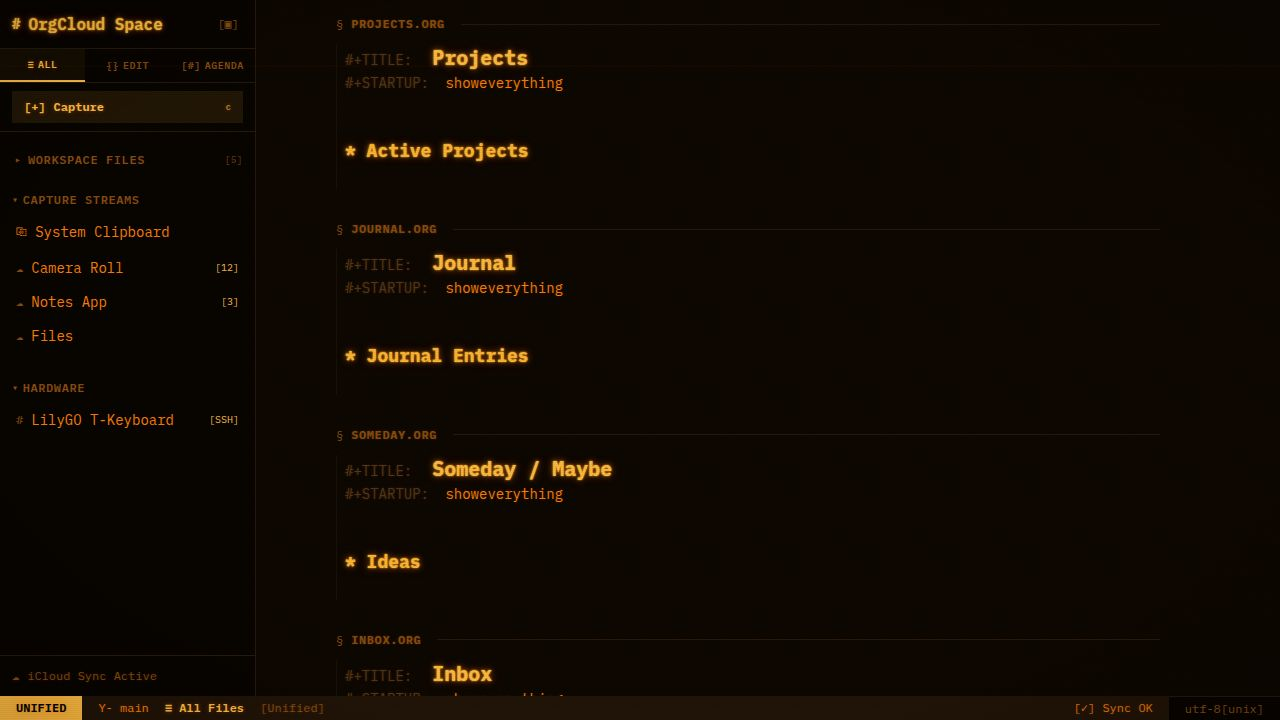
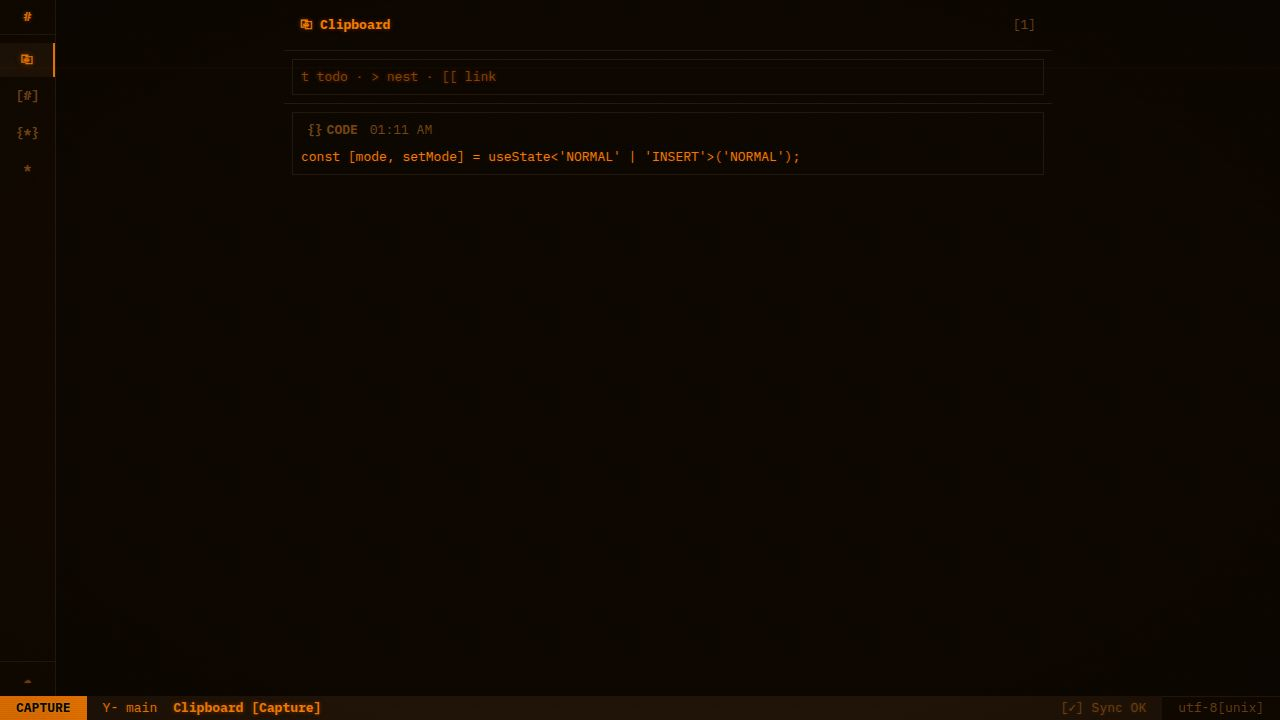
Add an Emacs-like command minibuffer for universal interface control
Integrates a new Minibuffer component for command execution and search, updates the Workspace to manage its visibility and keyboard shortcuts, enhances the StatusBar to display command echoes, and documents the new functionality in replit.md.

Replit-Commit-Author: Agent
Replit-Commit-Session-Id: dab55317-dbd5-4fa0-af83-9bc3eae3199b
Replit-Commit-Checkpoint-Type: full_checkpoint
Replit-Commit-Event-Id: 1dcb3949-687b-429f-9546-4cf817c8d932
Replit-Commit-Screenshot-Url: https://storage.googleapis.com/screenshot-production-us-central1/5d0b2f30-a35a-452f-b984-250b77fea052/dab55317-dbd5-4fa0-af83-9bc3eae3199b/GsNeFlB
Replit-Helium-Checkpoint-Created: true

diff --git a/client/src/components/editor/Minibuffer.tsx b/client/src/components/editor/Minibuffer.tsx
@@ -1,0 +1,185 @@
+import React, { useState, useRef, useEffect, useMemo } from "react";
+import { cn } from "@/lib/utils";
+import { useHeadingsSearch } from "@/hooks/use-org-data";
+
+interface MinibufferCommand {
+  id: string;
+  label: string;
+  hint?: string;
+  action: () => void;
+}
+
+interface MinibufferProps {
+  onClose: () => void;
+  onSwitchView: (view: "org" | "agenda" | "roam" | "clipboard") => void;
+  onOpenCapture: () => void;
+  onCycleTheme: () => void;
+  onCarryOver: () => void;
+  onCommandExecuted: (label: string) => void;
+}
+
+export default function Minibuffer({
+  onClose,
+  onSwitchView,
+  onOpenCapture,
+  onCycleTheme,
+  onCarryOver,
+  onCommandExecuted,
+}: MinibufferProps) {
+  const [query, setQuery] = useState("");
+  const [selectedIdx, setSelectedIdx] = useState(0);
+  const [mode, setMode] = useState<"command" | "search">("command");
+  const inputRef = useRef<HTMLInputElement>(null);
+  const listRef = useRef<HTMLDivElement>(null);
+
+  const searchQuery = mode === "search" ? query : "";
+  const { data: headings = [] } = useHeadingsSearch(searchQuery);
+
+  useEffect(() => {
+    inputRef.current?.focus();
+  }, []);
+
+  const exec = (label: string, fn: () => void) => {
+    fn();
+    onCommandExecuted(label);
+    onClose();
+  };
+
+  const commands: MinibufferCommand[] = useMemo(() => [
+    { id: "switch-to-clipboard", label: "switch-to-clipboard", hint: "⎘", action: () => exec("Switched to Clipboard", () => onSwitchView("clipboard")) },
+    { id: "switch-to-agenda", label: "switch-to-agenda", hint: "[#]", action: () => exec("Switched to Agenda", () => onSwitchView("agenda")) },
+    { id: "switch-to-roam", label: "switch-to-roam", hint: "{*}", action: () => exec("Switched to Roam", () => onSwitchView("roam")) },
+    { id: "switch-to-org", label: "switch-to-org", hint: "*", action: () => exec("Switched to Org Buffer", () => onSwitchView("org")) },
+    { id: "org-capture", label: "org-capture", hint: "c", action: () => exec("Org Capture", () => onOpenCapture()) },
+    { id: "cycle-theme", label: "cycle-theme", hint: "#", action: () => exec("Theme cycled", () => onCycleTheme()) },
+    { id: "carry-over-tasks", label: "carry-over-tasks", hint: "", action: () => exec("Tasks carried over", () => onCarryOver()) },
+    { id: "search-headings", label: "search-headings", hint: "/", action: () => { setMode("search"); setQuery(""); setSelectedIdx(0); } },
+  ], []);
+
+  const filteredCommands = useMemo(() => {
+    if (mode === "search") return [];
+    if (!query.trim()) return commands;
+    const q = query.toLowerCase();
+    return commands.filter(c => c.label.toLowerCase().includes(q) || c.id.toLowerCase().includes(q));
+  }, [query, commands, mode]);
+
+  const headingItems = useMemo(() => {
+    if (mode !== "search") return [];
+    return headings.slice(0, 20).map((h) => ({
+      id: `heading-${h.sourceFile}-${h.lineNumber}`,
+      label: `${"*".repeat(h.level)} ${h.status ? h.status + " " : ""}${h.title}`,
+      hint: `${h.sourceFile}:${h.lineNumber}`,
+      action: () => exec(`Jumped to ${h.title}`, () => onSwitchView("org")),
+    }));
+  }, [headings, mode]);
+
+  const items = mode === "search" ? headingItems : filteredCommands;
+
+  useEffect(() => {
+    setSelectedIdx(0);
+  }, [query, mode]);
+
+  useEffect(() => {
+    if (listRef.current) {
+      const selected = listRef.current.querySelector("[data-selected='true']");
+      if (selected) {
+        selected.scrollIntoView({ block: "nearest" });
+      }
+    }
+  }, [selectedIdx]);
+
+  const handleKeyDown = (e: React.KeyboardEvent) => {
+    if (e.key === "Escape") {
+      if (mode === "search") {
+        setMode("command");
+        setQuery("");
+      } else {
+        onClose();
+      }
+      return;
+    }
+    if (e.key === "ArrowDown" || (e.ctrlKey && e.key === "n")) {
+      e.preventDefault();
+      setSelectedIdx(i => Math.min(i + 1, items.length - 1));
+      return;
+    }
+    if (e.key === "ArrowUp" || (e.ctrlKey && e.key === "p")) {
+      e.preventDefault();
+      setSelectedIdx(i => Math.max(i - 1, 0));
+      return;
+    }
+    if (e.key === "Enter") {
+      e.preventDefault();
+      if (items[selectedIdx]) {
+        items[selectedIdx].action();
+      }
+      return;
+    }
+  };
+
+  const handleChange = (e: React.ChangeEvent<HTMLInputElement>) => {
+    const val = e.target.value;
+    if (mode === "command" && val === "/") {
+      setMode("search");
+      setQuery("");
+      return;
+    }
+    setQuery(val);
+  };
+
+  const prompt = mode === "search" ? "Search: " : "M-x ";
+
+  return (
+    <div className="flex flex-col w-full font-mono z-50" data-testid="minibuffer">
+      {items.length > 0 && (
+        <div
+          ref={listRef}
+          className="max-h-[calc(8*1.4em+16px)] overflow-y-auto border-t border-border bg-card"
+          data-testid="minibuffer-completions"
+        >
+          {items.map((item, i) => (
+            <button
+              key={item.id}
+              data-selected={i === selectedIdx}
+              onClick={() => item.action()}
+              onMouseEnter={() => setSelectedIdx(i)}
+              className={cn(
+                "w-full text-left px-4 py-0.5 flex items-center gap-2 transition-colors",
+                i === selectedIdx
+                  ? "bg-muted text-foreground phosphor-glow"
+                  : "text-foreground"
+              )}
+              data-testid={`minibuffer-item-${item.id}`}
+            >
+              <span className="flex-1 truncate">{item.label}</span>
+              {item.hint && (
+                <span className="text-muted-foreground ml-2 flex-shrink-0">{item.hint}</span>
+              )}
+            </button>
+          ))}
+        </div>
+      )}
+
+      {items.length === 0 && query.length > 0 && (
+        <div className="border-t border-border bg-card px-4 py-1 text-muted-foreground phosphor-glow-dim">
+          {mode === "search" ? "No headings found" : "No matching commands"}
+        </div>
+      )}
+
+      <div className="h-6 flex items-center bg-muted border-t border-border px-4 flex-shrink-0">
+        <span className="text-muted-foreground mr-1 flex-shrink-0">{prompt}</span>
+        <input
+          ref={inputRef}
+          type="text"
+          value={query}
+          onChange={handleChange}
+          onKeyDown={handleKeyDown}
+          className="flex-1 bg-transparent text-foreground outline-none phosphor-glow caret-foreground"
+          spellCheck={false}
+          autoComplete="off"
+          data-testid="minibuffer-input"
+        />
+      </div>
+    </div>
+  );
+}

diff --git a/client/src/pages/Workspace.tsx b/client/src/pages/Workspace.tsx
@@ -1,4 +1,4 @@
-import React, { useState, useEffect, useMemo } from "react";
+import React, { useState, useEffect, useMemo, useCallback } from "react";
 import Sidebar from "@/components/layout/Sidebar";
 import StatusBar from "@/components/layout/StatusBar";
 import ClipboardManager from "@/components/editor/ClipboardManager";
@@ -6,16 +6,22 @@ import AgendaView from "@/components/editor/AgendaView";
 import OrgBufferView from "@/components/editor/UnifiedView";
 import RoamView from "@/components/editor/RoamView";
 import OrgCapture from "@/components/editor/OrgCapture";
-import { useSeedData, useOrgFiles } from "@/hooks/use-org-data";
+import Minibuffer from "@/components/editor/Minibuffer";
+import { useSeedData, useOrgFiles, useCarryOverTasks } from "@/hooks/use-org-data";
+import { useCrtTheme } from "@/lib/crt-theme";
 
 type ViewMode = "org" | "agenda" | "roam" | "clipboard";
 
 export default function Workspace() {
   const [viewMode, setViewMode] = useState<ViewMode>("clipboard");
   const [captureOpen, setCaptureOpen] = useState(false);
+  const [minibufferOpen, setMinibufferOpen] = useState(false);
+  const [lastCommand, setLastCommand] = useState<string | null>(null);
 
   const seedMutation = useSeedData();
   const { data: orgFiles } = useOrgFiles();
+  const carryOverMutation = useCarryOverTasks();
+  const { cycleTheme } = useCrtTheme();
 
   const defaultCaptureFile = useMemo(() => {
     if (!orgFiles || orgFiles.length === 0) return "dad.org";
@@ -32,19 +38,48 @@ export default function Workspace() {
     }
   }, [orgFiles]);
 
+  const handleCommandExecuted = useCallback((label: string) => {
+    setLastCommand(label);
+  }, []);
+
+  useEffect(() => {
+    if (lastCommand) {
+      const timer = setTimeout(() => setLastCommand(null), 2000);
+      return () => clearTimeout(timer);
+    }
+  }, [lastCommand]);
+
   useEffect(() => {
     const handleKey = (e: KeyboardEvent) => {
       if (captureOpen) return;
+
+      if ((e.ctrlKey || e.metaKey) && e.key === "k") {
+        e.preventDefault();
+        setMinibufferOpen(prev => !prev);
+        return;
+      }
+
+      const tag = (e.target as HTMLElement)?.tagName;
+      const isInput = tag === "INPUT" || tag === "TEXTAREA" || tag === "SELECT";
+
+      if (minibufferOpen) return;
+
+      if (isInput) return;
+
+      if (e.key === " ") {
+        e.preventDefault();
+        setMinibufferOpen(true);
+        return;
+      }
+
       if (e.key === "c" && !e.ctrlKey && !e.metaKey) {
-        const tag = (e.target as HTMLElement)?.tagName;
-        if (tag === "INPUT" || tag === "TEXTAREA" || tag === "SELECT") return;
         e.preventDefault();
         setCaptureOpen(true);
       }
     };
     window.addEventListener("keydown", handleKey);
     return () => window.removeEventListener("keydown", handleKey);
-  }, [captureOpen]);
+  }, [captureOpen, minibufferOpen]);
 
   return (
     <div className="crt-overlay flex flex-col h-screen w-screen overflow-hidden bg-background text-foreground font-mono">
@@ -65,7 +100,18 @@ export default function Workspace() {
           )}
         </main>
       </div>
-      <StatusBar viewMode={viewMode} />
+      {minibufferOpen ? (
+        <Minibuffer
+          onClose={() => setMinibufferOpen(false)}
+          onSwitchView={(v) => setViewMode(v)}
+          onOpenCapture={() => setCaptureOpen(true)}
+          onCycleTheme={cycleTheme}
+          onCarryOver={() => carryOverMutation.mutate()}
+          onCommandExecuted={handleCommandExecuted}
+        />
+      ) : (
+        <StatusBar viewMode={viewMode} lastCommand={lastCommand} />
+      )}
       <OrgCapture open={captureOpen} onClose={() => setCaptureOpen(false)} defaultFile={defaultCaptureFile} />
     </div>
   );

diff --git a/client/src/components/layout/StatusBar.tsx b/client/src/components/layout/StatusBar.tsx
@@ -2,9 +2,10 @@ import React from "react";
 
 interface StatusBarProps {
   viewMode: "org" | "agenda" | "roam" | "clipboard";
+  lastCommand?: string | null;
 }
 
-export default function StatusBar({ viewMode }: StatusBarProps) {
+export default function StatusBar({ viewMode, lastCommand }: StatusBarProps) {
   const modeLabels: Record<string, string> = {
     org: "ORG",
     agenda: "AGENDA",
@@ -26,13 +27,19 @@ export default function StatusBar({ viewMode }: StatusBarProps) {
       </div>
 
       <div className="bg-muted text-foreground flex items-center px-4 flex-1 gap-4 phosphor-glow-dim">
-        <span>Y- main</span>
-        <span className="font-bold phosphor-glow">
-          {viewDescriptions[viewMode]}
-        </span>
-        <span className="flex items-center gap-1 ml-auto text-muted-foreground">
-          [✓] Sync OK
-        </span>
+        {lastCommand ? (
+          <span className="phosphor-glow" data-testid="statusbar-echo">{lastCommand}</span>
+        ) : (
+          <>
+            <span>Y- main</span>
+            <span className="font-bold phosphor-glow">
+              {viewDescriptions[viewMode]}
+            </span>
+            <span className="flex items-center gap-1 ml-auto text-muted-foreground">
+              [✓] Sync OK
+            </span>
+          </>
+        )}
       </div>
 
       <div className="bg-card text-muted-foreground flex items-center px-4 gap-4 border-t border-border">

diff --git a/replit.md b/replit.md
@@ -19,6 +19,7 @@ A Doom Emacs-inspired web application for managing Org-mode knowledge files back
 6. **Inline Quick-Add** - Fast task input at top of Agenda Today view.
 7. **LilyGO T-Keyboard TUI Sim** - Simulated 160x40 terminal for ESP32 hardware device at `/tui`.
 8. **Four-View Architecture** - Workspace has exactly 4 swappable views (Org/Agenda/Roam/Capture) via a narrow icon sidebar. No file-centric navigation — everything is view-centric. All GUI icons replaced with ASCII/Unicode text characters for terminal authenticity.
+9. **Minibuffer (M-x Command Launcher)** - Emacs-authentic minibuffer at screen bottom, activated by `SPC` (Doom leader key) or `Ctrl+K`/`Cmd+K`. Fuzzy-matched completion candidates expand upward from the input line. Built-in commands: view switching, org-capture, theme cycling, carry-over tasks, heading search (prefix `/`). After execution, the StatusBar echo area briefly displays the command result. Designed as the universal interaction paradigm — scales from TUI to desktop. Uses `cmdk` for fuzzy matching.
 
 ## Key Server Components
 
